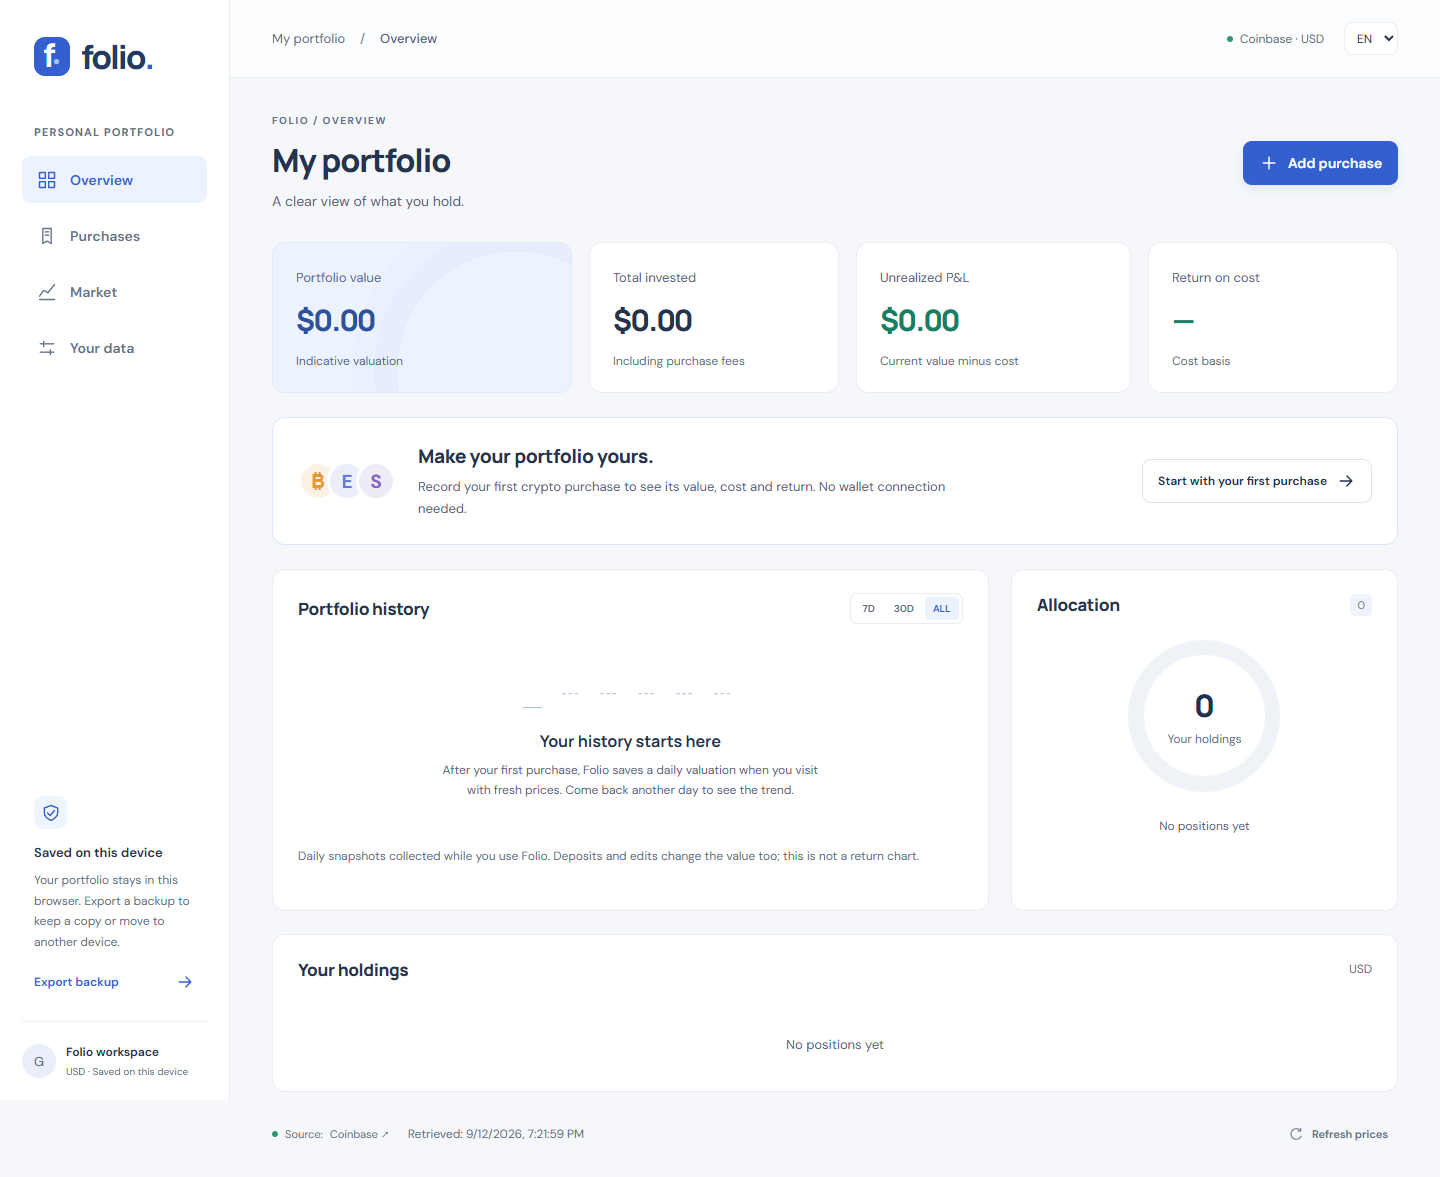
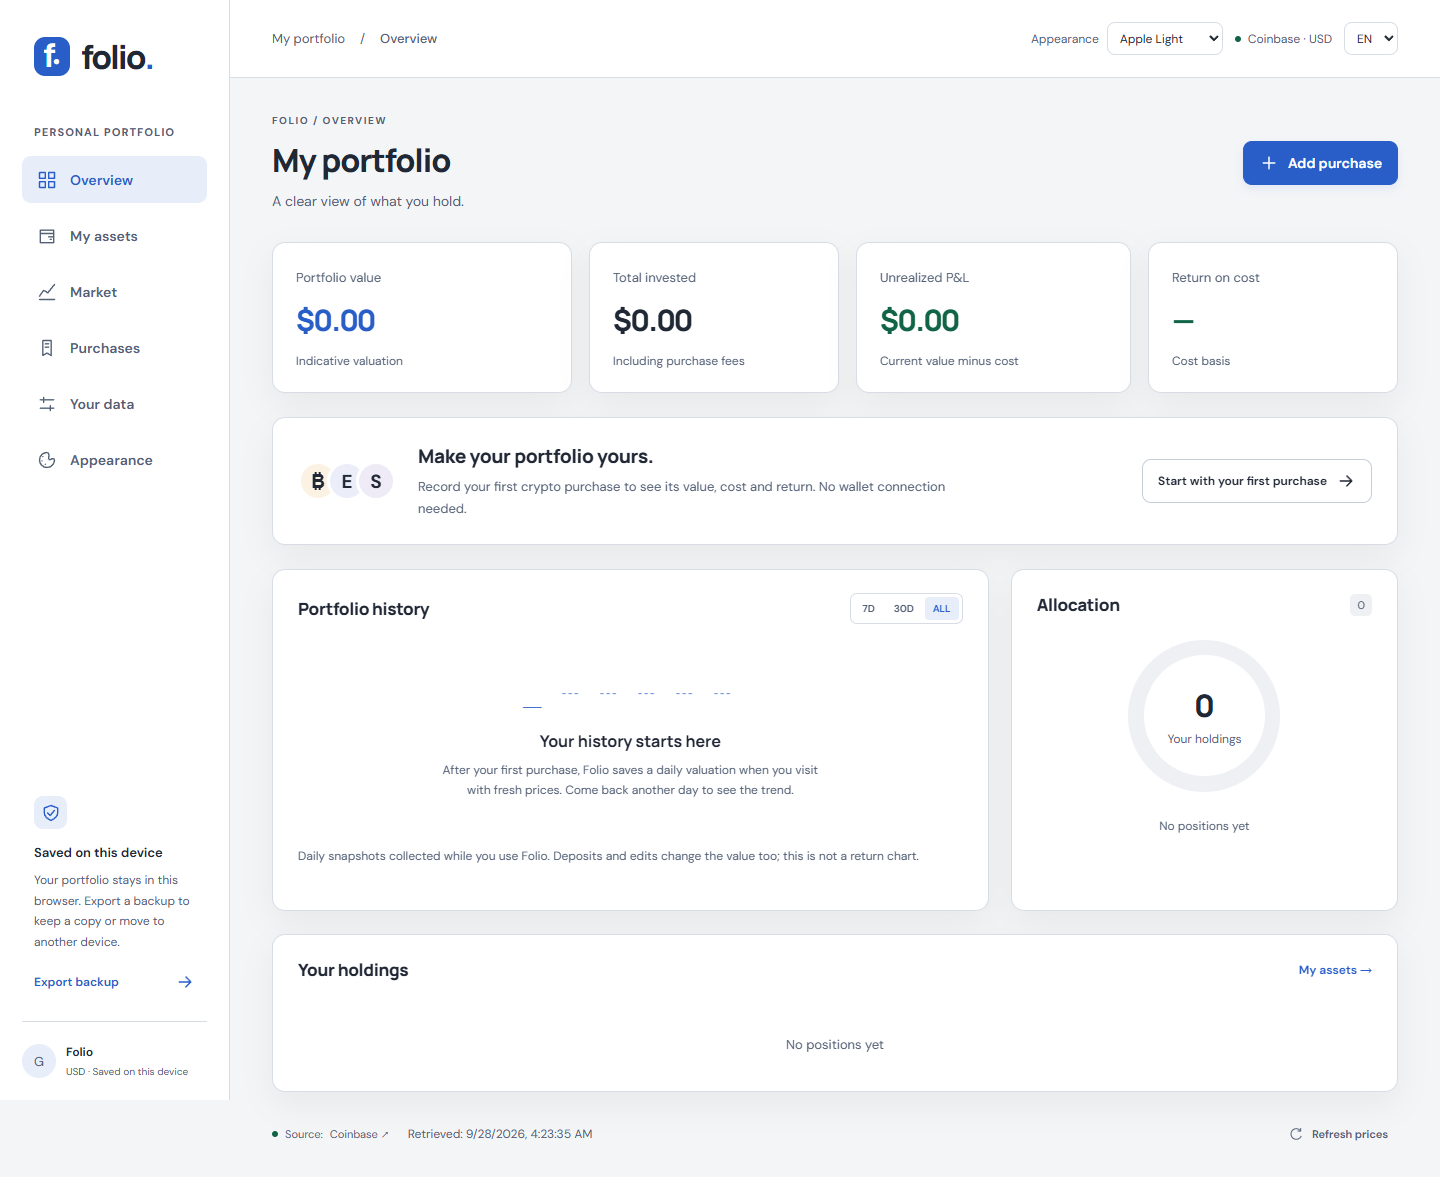
Record public Folio release QA and mobile touch regression

diff --git a/frontend/tests/e2e/layout-states.spec.ts b/frontend/tests/e2e/layout-states.spec.ts
@@ -1,5 +1,87 @@
 import { test, expect } from "@playwright/test";
 
+test("touch navigation and market purchase on a mobile viewport", async ({
+  browser,
+  browserName,
+}) => {
+  test.skip(
+    browserName === "firefox",
+    "Mobile touch emulation is checked in Chromium and WebKit",
+  );
+  const context = await browser.newContext({
+    viewport: { width: 390, height: 844 },
+    isMobile: true,
+    hasTouch: true,
+  });
+  const page = await context.newPage();
+  try {
+    await page.addInitScript(() => {
+      localStorage.setItem("folio.language", "en");
+      localStorage.setItem("crypto-portfolio-theme", "dark-glass");
+    });
+    await page.route("https://api.coinbase.com/**", (r) =>
+      r.fulfill({
+        json: {
+          data: {
+            currency: "USD",
+            rates: Object.fromEntries(
+              [
+                "BTC",
+                "ETH",
+                "SOL",
+                "USDC",
+                "XRP",
+                "ADA",
+                "DOGE",
+                "AVAX",
+                "LINK",
+                "DOT",
+                "LTC",
+                "BCH",
+              ].map((s) => [s, "0.01"]),
+            ),
+          },
+        },
+      }),
+    );
+    await page.goto(process.env.FOLIO_TEST_URL || "http://127.0.0.1:5188");
+    await expect(page.locator(".price-status")).toContainText("Coinbase");
+    for (const hash of [
+      "assets",
+      "purchases",
+      "settings",
+      "appearance",
+      "overview",
+      "markets",
+    ])
+      await page.locator(`nav a[href="#${hash}"]`).tap();
+    await page
+      .locator(".market-card")
+      .filter({ hasText: "Ethereum" })
+      .getByRole("button")
+      .tap();
+    await expect(page.getByLabel("Coin", { exact: true })).toHaveValue("ETH");
+    await expect(page.getByLabel("Price per coin · USD")).toHaveValue("100");
+    await page.getByLabel("Quantity", { exact: true }).fill("1,5");
+    await page.getByLabel("Fee · USD").fill("1");
+    await expect(page.locator(".form-total")).toContainText("$151.00");
+    await page
+      .getByRole("button", { name: "Save purchase", exact: true })
+      .tap();
+    await expect(page.getByRole("dialog")).toHaveCount(0);
+    await page.locator('nav a[href="#assets"]').tap();
+    await expect(page.locator("tbody")).toContainText("Ethereum");
+    await page.reload();
+    expect(
+      await page.evaluate(
+        () => JSON.parse(localStorage.getItem("folio.portfolio.v1")!).purchases,
+      ),
+    ).toHaveLength(1);
+  } finally {
+    await context.close();
+  }
+});
+
 for (const count of [0, 1, 2, 24])
   test(`short viewports, keyboard and ${count} purchases`, async ({ page }) => {
     await page.addInitScript(

diff --git a/RELEASE_STATUS.md b/RELEASE_STATUS.md
@@ -4,8 +4,8 @@
 
 В текущем `godaylor/crypto-portfolio` реализованы все девять тем и исправлена
 покупка из рынка. Код расчётов, формат покупок, API и ключи хранения сохранены.
-Публикация этой версии ещё не подтверждена; результат проверки сайта будет
-добавлен сюда после развёртывания.
+Версия 3 опубликована 28.09.2026; публичный сайт проверен без авторизации.
+Незавершённых пунктов реализации задания нет. Ограничения тестирования указаны ниже.
 
 ## Выполнено
 
@@ -43,6 +43,12 @@
   исправлены, после чего финальные 8/8 прошли. Все девять тем проверены.
 - Chromium-specific media emulation не запускается в Firefox/WebKit. Live
   smoke включается отдельно; пропуски этих проверок в обычном прогоне явные.
+- На опубликованном сайте: 27/27 сценариев в Chromium, без токенов, cookies
+  авторизации и пользовательского профиля. Включён real-provider smoke:
+  реальные котировки, три QA-покупки, активы, reload, история, рынок и RU mobile.
+- Дополнительно проверены касания меню и кнопок, покупка ETH с ценой/комиссией
+  и reload в мобильной эмуляции Chromium и WebKit. QA-записи живут только в отдельных
+  браузерных контекстах и не затрагивают портфель владельца.
 - Для каждой темы: обзор, активы, рынок, история, оформление/меню, данные,
   заполненный диалог и ошибка формы на 1440 и 390 CSS px; axe WCAG A/AA;
   графики; переключение в открытом диалоге; reload и сохранность покупок.
@@ -77,8 +83,14 @@ QA-покупки, контролируемые котировки и тесто
 - [Мобильная форма и ошибка](docs/screenshots/themes/dark-glass-mobile-form.jpg)
 
 Полные промежуточные снимки остаются в игнорируемой `qa-browser-smoke/`;
-повторяемые сценарии — `frontend/tests/e2e/`. Старые шесть live-снимков в
-`docs/screenshots/` относятся к предыдущей версии до их повторного захвата.
+повторяемые сценарии — `frontend/tests/e2e/`. Шесть live-снимков в
+`docs/screenshots/` повторно сняты на публичной версии 3 без авторизации:
+[обзор](docs/screenshots/portfolio-desktop.png),
+[рынок](docs/screenshots/market-desktop.png),
+[история](docs/screenshots/purchases-desktop.png),
+[первый вход](docs/screenshots/first-run-desktop.png),
+[RU mobile](docs/screenshots/portfolio-mobile-ru.png),
+[форма mobile](docs/screenshots/purchase-form-mobile-ru.png).
 
 ## Изоляция, происхождение и публикация
 
@@ -97,6 +109,19 @@ legacy-файлов были удалены в предыдущей работе
 Они по-прежнему восстанавливаются из `3d903cc`, как описано в PROVENANCE.md.
 
 Существующий адрес: https://folio-crypto-godaylor.maxeemzhuparov.chatgpt.site
-Публикация выполняется в существующий Sites-проект с публичным доступом,
-без создания ресурсов или изменения тарифа. Точный commit и результат
-анонимной проверки будут зафиксированы после публикации.
+Публикация подтверждена: Sites version 3, `succeeded`, публичный доступ сохранён,
+ресурсы/тариф не менялись. Runtime source:
+`f9d80f5a390be4fd50243f0f9f992a45cdeb247e` (main, push в GitHub выполнен).
+Последующий commit обновляет только QA-тест/доказательства и документацию,
+не runtime. GitHub CI runtime-коммита:
+[успешный прогон](https://github.com/godaylor/crypto-portfolio/actions/runs/36365602367).
+
+Анонимный HTTPS-запрос без Authorization/cookies вернул 200. Имена и SHA-256
+публичных JS/CSS совпадают с локальным `dist/`:
+
[2 lines of base64/hex data omitted]
+
+Штатная упаковка Sites под Windows потребовала Git Bash и `TAR_OPTIONS=--force-local`
+только в окружении команды. Исходники упаковщика, настройки системы и хостинга
+не менялись. Никаких ключей/токенов в Git или QA-артефактах нет.
